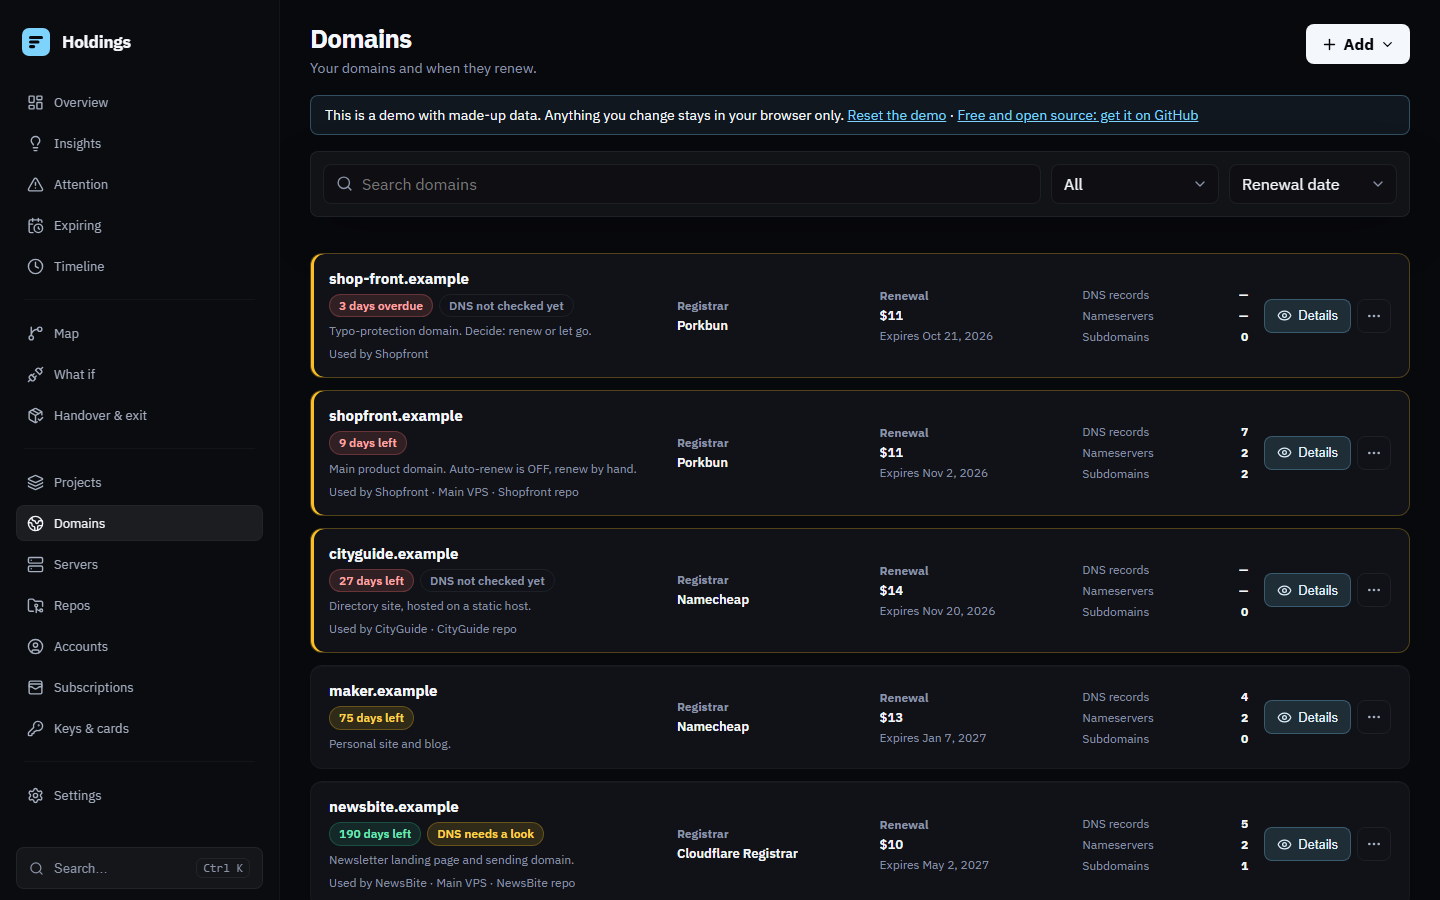
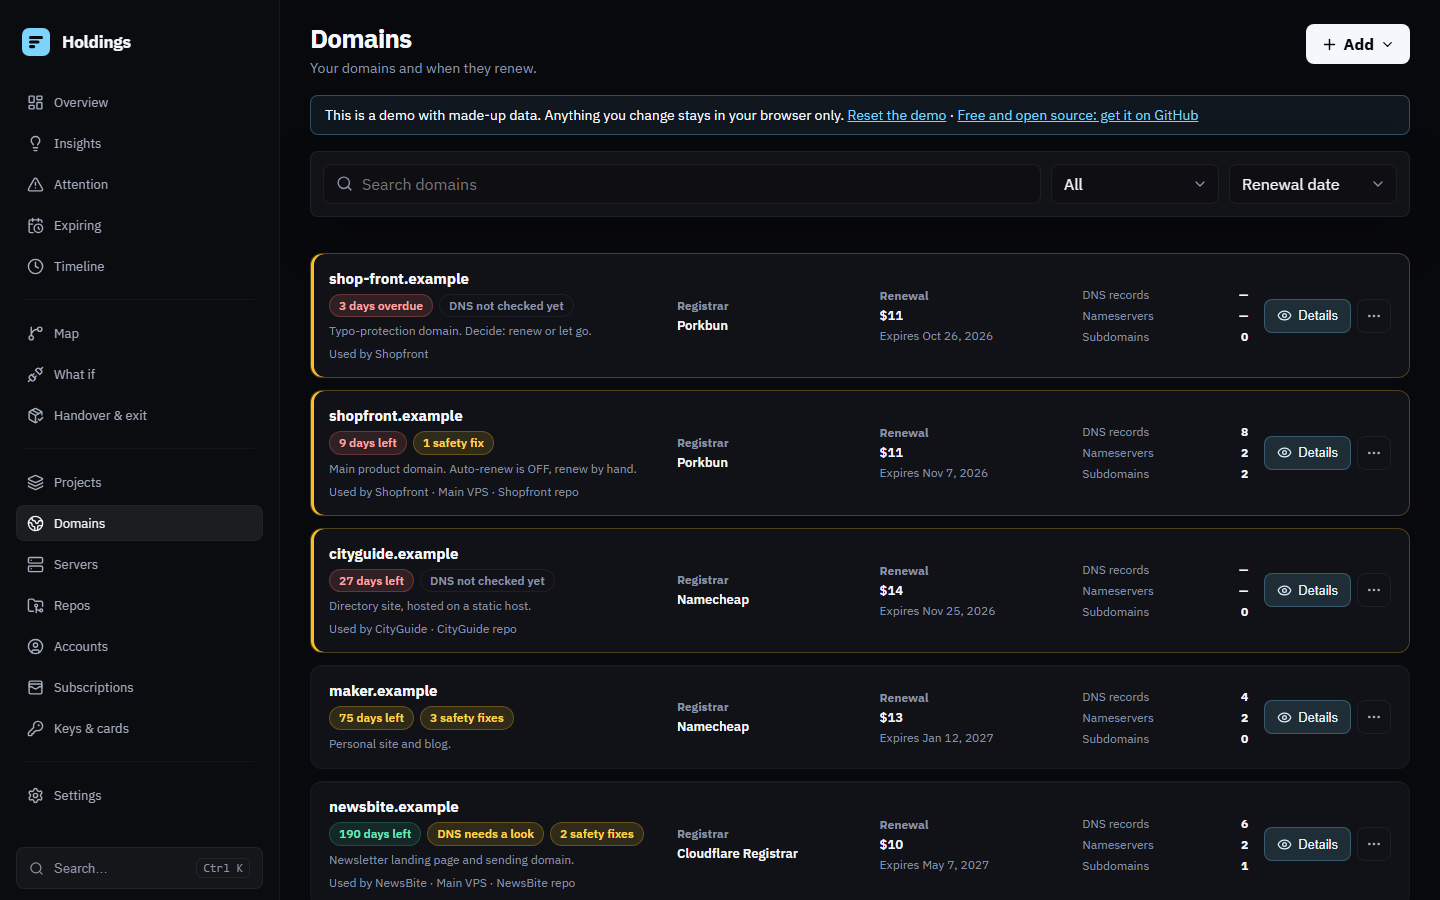
Release 0.2.1
Changelog and versions, README status badge, tagline and a fuller
roadmap (v0.3 in progress, v0.4, v0.5, and what isn't planned), and a
new Domains screenshot showing the safety checks.

diff --git a/packages/mcp/src/index.ts b/packages/mcp/src/index.ts
@@ -7,7 +7,7 @@ import { createTools } from './tools'
 // (stdio). Read-only. Usage: node holdings-mcp.js --file holdings-export.json
 // stdout carries protocol messages only; everything else goes to stderr.
 
-const VERSION = '0.2.0'
+const VERSION = '0.2.1'
 const { values } = parseArgs({ options: { file: { type: 'string' }, url: { type: 'string' }, help: { type: 'boolean' } }, strict: true })
 const file = values.file || process.env.HOLDINGS_EXPORT_FILE
 const url = values.url || process.env.HOLDINGS_URL

diff --git a/README.md b/README.md
@@ -1,10 +1,10 @@
 # Holdings
 
-**Everything your side projects run on, in one place.** Domains, servers, repos, accounts and subscriptions, grouped by project, with what each project costs and what's about to expire.
+**Everything your side projects run on, in one place.** Domains, servers, repos, accounts, subscriptions, keys and cards, grouped by project, with what each project costs and earns, what's about to expire, and what breaks if something stops.
 
 [![CI](https://github.com/chmuzamil/holdings/actions/workflows/ci.yml/badge.svg)](https://github.com/chmuzamil/holdings/actions/workflows/ci.yml)
 [![License: MIT](https://img.shields.io/badge/license-MIT-22c55e)](LICENSE)
-![Status: early](https://img.shields.io/badge/status-early%20(v0.1)-f59e0b)
+[![Release](https://img.shields.io/github/v/release/chmuzamil/holdings?color=0ea5e9)](https://github.com/chmuzamil/holdings/releases/latest)
 
 **[Try the live demo →](https://holdings.chaudhery.com)** It uses made-up data, and anything you change stays in your browser.
 
@@ -14,7 +14,7 @@ If you run a handful of side projects, you probably have 20 domains at three reg
 
 It runs entirely in your browser. No account, no tracking, no server required. If you want it on every device, run it on your own server with one Docker command and a login.
 
-> **Status:** v0.2. The asset register, "what breaks if…", the expiry radar, handover and exit packs, self-hosting with a login, Stripe revenue and an MCP server for AI agents all work today. Still young: feedback and issues are very welcome.
+> **Status:** v0.2, with v0.3 under way. The asset register, "what breaks if…", the expiry radar, handover and exit packs, self-hosting with a login, Stripe revenue and an MCP server for AI agents all work today. Still young: feedback and issues are very welcome.
 
 ## Who it's for
 
@@ -133,9 +133,24 @@ These tools are great at what they do, and Holdings doesn't try to replace them.
 - ✅ **MCP server** (read-only), so Claude, Cursor and other agents can answer questions like "what renews this month?" or "what breaks if this server dies?". It reads a JSON export, or live data from the self-hosted server with a read-only access token. See [docs/mcp.md](docs/mcp.md).
 - ✅ **Self-hosted mode**: one Docker container (Node + SQLite) with a login (password plus optional two-step codes) and saving to your server. Scheduled checks and notifications come next.
 
-**v0.3**: ✅ domain safety checks (transfer lock, DNSSEC, SPF, DMARC), subscription clean-up suggestions, Uptime Kuma / Gatus status import, scheduled checks and notifications (self-hosted), dead-man's switch, registrar and Cloudflare importers.
+**v0.3: it watches for you** (in progress)
+- ✅ **Domain safety checks**: transfer lock, registration ending, nameservers, SPF, DMARC and DNSSEC, each with the next step.
+- **Subscription clean-up**: what you pay for that no project uses, duplicates, and renewals for archived projects.
+- **Uptime Kuma / Gatus status**: up or down next to each server and project, read from your own instance.
+- **Scheduled checks and notifications** (self-hosted): renewals, expiring keys and cards, failed safety checks, by webhook, ntfy or your own email.
+- **Dead-man's switch**: if you don't check in for a while, the person you chose gets your locked handover file.
 
-**Later**: verified backups via [BackupProof](https://github.com/chmuzamil/BackupProof), read-only second user.
+**v0.4: less typing**
+- Read-only importers for Cloudflare, registrars with an API (Porkbun, Namecheap, Spaceship) and Hetzner / DigitalOcean servers.
+- Lemon Squeezy and Paddle revenue, next to Stripe.
+- CSV import for the spreadsheet you already keep.
+
+**v0.5: sharing**
+- A read-only second user: a co-founder, an accountant, or a buyer during a sale.
+- Verified backups via [BackupProof](https://github.com/chmuzamil/BackupProof).
+- A read-only data room link for the exit pack, with an expiry date.
+
+**Not planned, on purpose**: storing real secrets (Holdings keeps names, dates and where things live, never the key itself); uptime monitoring (Uptime Kuma and Gatus do it well, so Holdings reads them); a hosted multi-user service.
 
 ## Development
 

diff --git a/CHANGELOG.md b/CHANGELOG.md
@@ -1,10 +1,15 @@
 # Changelog
 
-## Unreleased
+## 0.2.1 (2026-10-29)
+
+Bug fixes, and the first v0.3 feature: domain safety checks.
 
 ### Added
 - **Domain safety checks**: transfer lock, registration ending, nameservers, SPF, DMARC and DNSSEC, each with what to do next. Shown in a domain's details, with a count on its card. DKIM isn't checked (it needs your mail provider's selector).
 - The DNS check now also reads the domain's DMARC record and whether the registry says it is signed with DNSSEC.
+
+### Changed
+- Demo repos link to the hosted demo instead of a placeholder GitHub organisation.
 
 ### Fixed
 - A repo could disappear from its project when an imported GitHub repo and a hand-added record for the same URL were merged. Links now move to the record that is kept, and links from both copies are kept.
